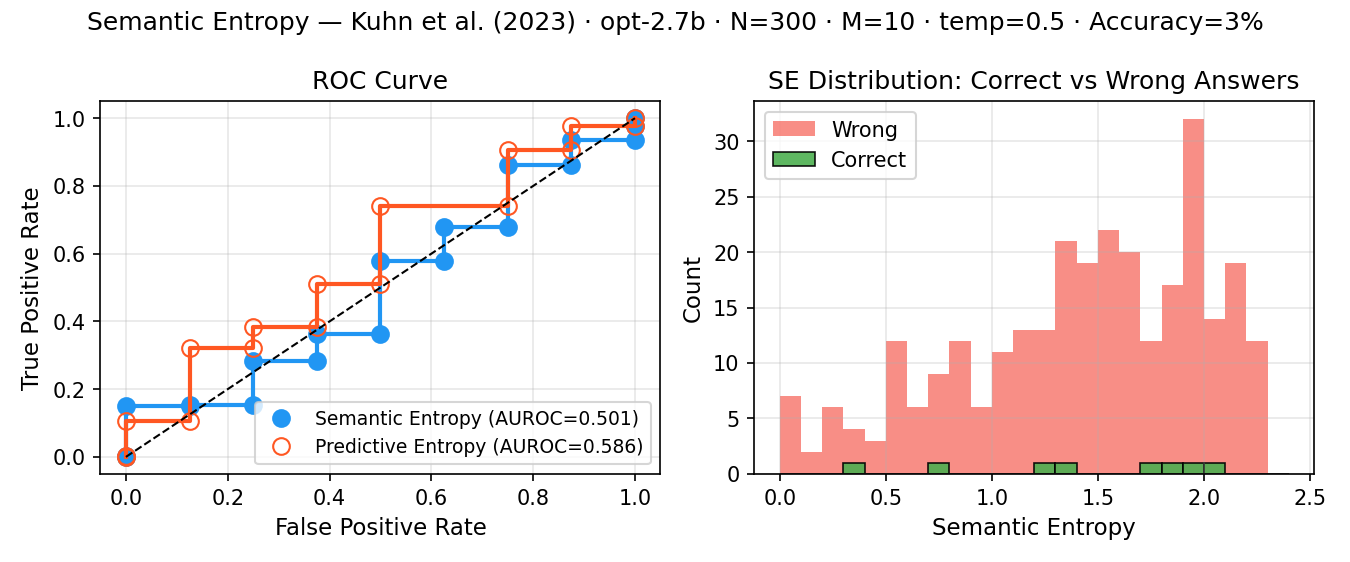
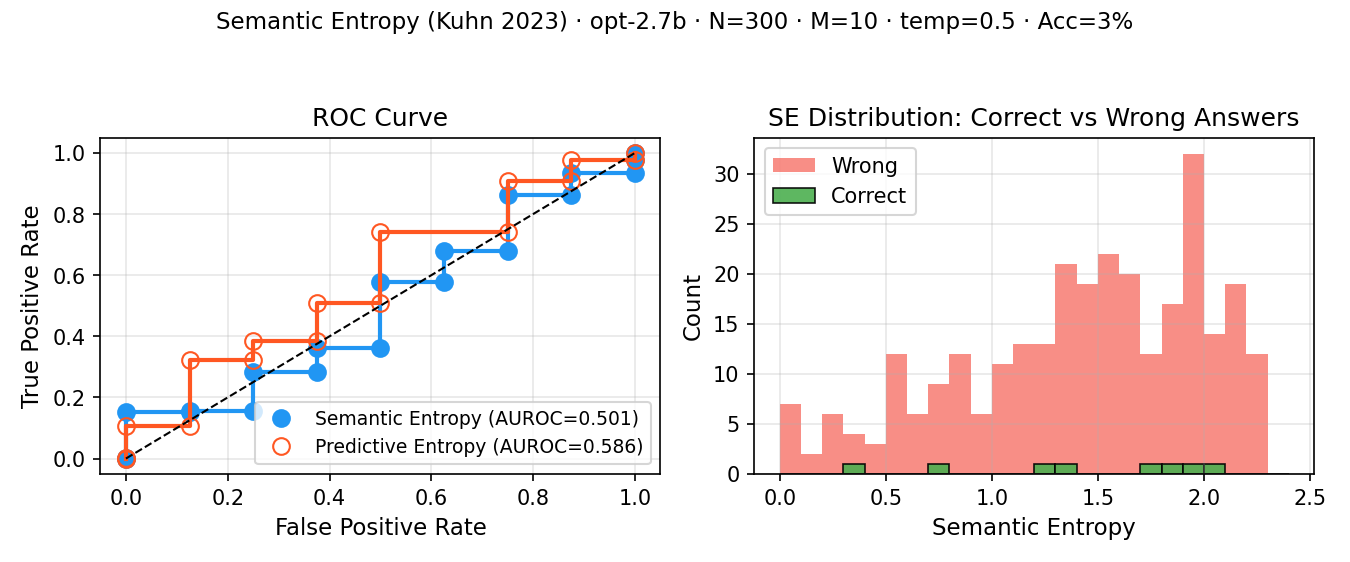
shorten plot titles, fix overflow

diff --git a/results.py b/results.py
@@ -69,6 +69,7 @@ def plot_auroc(data: dict, path: Path = Path("benchmark_results.json")) -> None:
         pe_scores    = [r["predictive_entropy"]   for r in rows]
 
         model_short = data["llm_model"].split("/")[-1]
+        model_short = model_short.replace("-Instruct-v0.3", "").replace("-Instruct", "")
         n_q   = data["n_questions"]
         n_s   = data["n_samples"]
         temp  = data["temperature"]
@@ -76,10 +77,10 @@ def plot_auroc(data: dict, path: Path = Path("benchmark_results.json")) -> None:
 
         fig, axes = plt.subplots(1, 2, figsize=(9, 3.75))
         fig.suptitle(
-            f"Semantic Entropy — Kuhn et al. (2023) · "
+            f"Semantic Entropy (Kuhn 2023) · "
             f"{model_short} · N={n_q} · M={n_s} · "
-            f"temp={temp} · Accuracy={acc:.0%}",
-            fontsize=12,
+            f"temp={temp} · Acc={acc:.0%}",
+            fontsize=11,
         )
 
         # ROC curves
@@ -115,7 +116,7 @@ def plot_auroc(data: dict, path: Path = Path("benchmark_results.json")) -> None:
         ax.tick_params(labelsize=10)
         ax.grid(alpha=0.3)
 
-        plt.tight_layout()
+        plt.tight_layout(rect=[0, 0, 1, 0.93])
         out = path.with_name(path.stem + "_plots.png")
         plt.savefig(out, dpi=150)
         print(f"\nPlots saved to {out}")

diff --git a/DESIGN.md b/DESIGN.md
@@ -180,21 +180,21 @@ The SEP probe achieves 96% of SE's AUROC at 1/10th the inference cost.
 
 ### 5.2 Per-model results
 
-![Mistral-7B results](outputs/sep_data_mistral-7b-instruct-v0.3_q300_s10_t0.5_20260526_021404_plots.png)
+<img src="outputs/sep_data_mistral-7b-instruct-v0.3_q300_s10_t0.5_20260526_021404_plots.png" width="75%">
 
-*Mistral-7B-Instruct-v0.3 · N=300 · SE AUROC=0.720 · PE AUROC=0.330 · Accuracy=61% · 75s wall time. The PE ROC curve falls **below** the diagonal — PE is anti-correlated with errors. The concise system prompt makes the model lexically rigid: all M=10 samples return the same wrong tokens on incorrect questions (PE≈0), while correct answers show slight lexical variation ("JFK" / "John Kennedy" / "John F. Kennedy"). SE is unaffected because it measures semantic diversity, not token identity — those three phrasings land in one cluster.*
-
----
-
-![Qwen2.5-1.5B results](outputs/qwen2.5-1.5b-instruct_q300_s10_t0.5_20260526_021523_plots.png)
-
-*Qwen2.5-1.5B-Instruct · N=300 · SE AUROC=0.755 · PE AUROC=0.293 · Accuracy=39% · 90s wall time. Same PE overconfidence pattern as Mistral. SE AUROC (0.755) is slightly higher than Mistral (0.720) despite the smaller model — likely a sampling artifact at N=300; the ordering may shift with more data.*
+*Mistral-7B · N=300 · SE AUROC=0.720 · PE AUROC=0.330 · Acc=61% · 75s. PE falls below the diagonal — anti-correlated with errors. The concise system prompt makes the model lexically rigid: all M=10 samples return the same wrong tokens on incorrect questions (PE≈0), while correct answers show slight lexical variation. SE is unaffected — "JFK", "John Kennedy", "John F. Kennedy" all land in one cluster.*
 
 ---
 
-![OPT-2.7B results](outputs/opt-2.7b_q300_s10_t0.5_20260526_021812_plots.png)
+<img src="outputs/qwen2.5-1.5b-instruct_q300_s10_t0.5_20260526_021523_plots.png" width="75%">
 
-*OPT-2.7B (base model, no instruction tuning) · N=300 · SE AUROC=0.501 ≈ random · PE AUROC=0.586 · Accuracy=3% · 252s wall time. With 3% accuracy, OPT rarely produces consistent answers even when correct — SE cannot separate uncertainty from noise. PE > SE here (the reverse of instruction-tuned models): OPT's noisy completions make token entropy sensitive to output format rather than factual uncertainty.*
+*Qwen2.5-1.5B · N=300 · SE AUROC=0.755 · PE AUROC=0.293 · Acc=39% · 90s. Same PE overconfidence pattern as Mistral. SE AUROC slightly higher than Mistral despite the smaller model — likely a sampling artifact at N=300.*
+
+---
+
+<img src="outputs/opt-2.7b_q300_s10_t0.5_20260526_021812_plots.png" width="75%">
+
+*OPT-2.7B (base model, no instruction tuning) · N=300 · SE AUROC=0.501 ≈ random · PE AUROC=0.586 · Acc=3% · 252s. With 3% accuracy, OPT rarely produces consistent answers even when correct — SE cannot separate uncertainty from noise. PE > SE (reverse of instruction-tuned models): noisy completions make token entropy sensitive to output format rather than factual uncertainty.*
 
 ---
 
